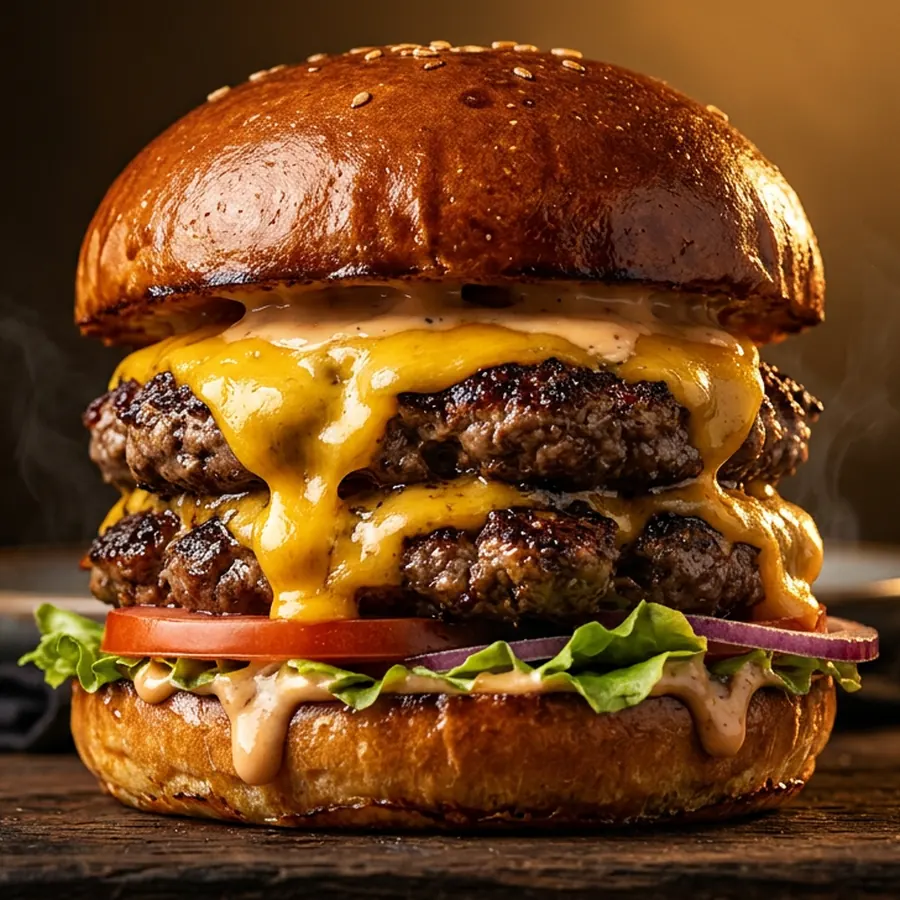
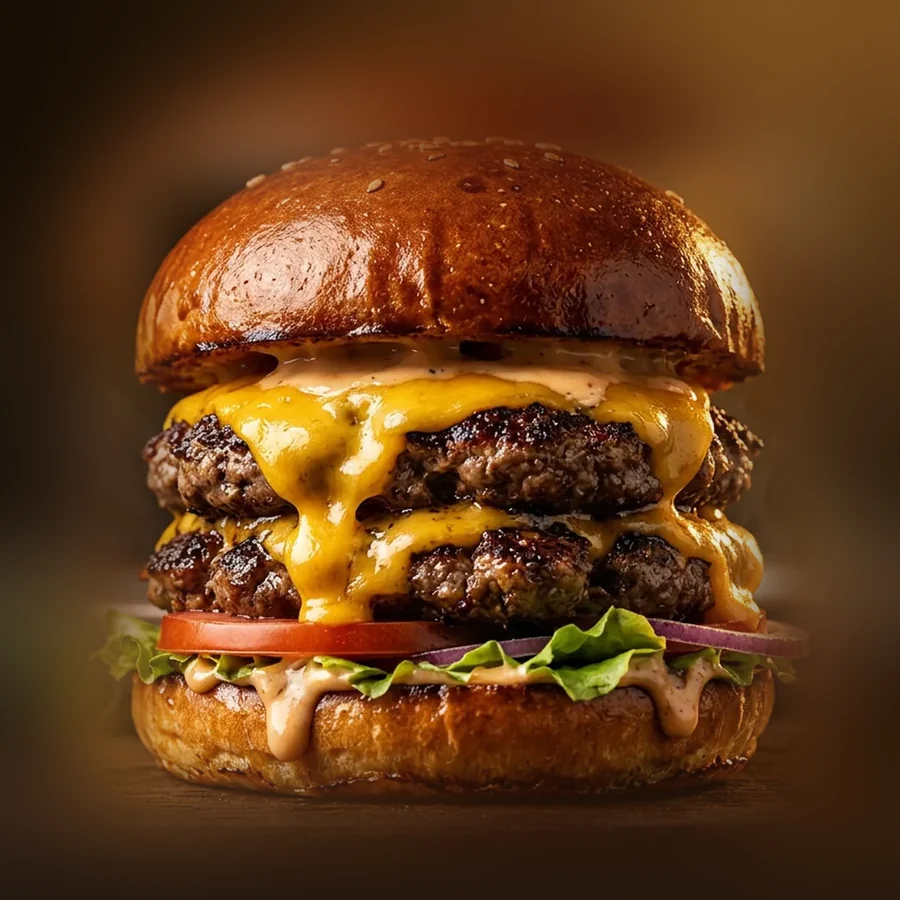
v4: hero com o burger inteiro, sem vão; cards sem zoom; endereço demo; WhatsApp da AEGO com botão flutuante; contato redesenhado

diff --git a/demo/index.html b/demo/index.html
@@ -3,8 +3,8 @@
 <head>
 <meta charset="utf-8">
 <meta name="viewport" content="width=device-width, initial-scale=1, viewport-fit=cover">
-<title>AEGO Burguer — Burger artesanal na Vila Mariana</title>
-<meta name="description" content="Hambúrguer artesanal na Vila Mariana, São Paulo. Smash, burgers duplos, porções e combos. Peça on-line para entrega ou retirada.">
+<title>AEGO Burguer — Burger artesanal</title>
+<meta name="description" content="Hambúrguer artesanal. Smash, burgers duplos, porções e combos. Peça on-line para entrega ou retirada.">
 <meta name="theme-color" content="#17120f">
 <meta property="og:title" content="AEGO Burguer — Burger artesanal. Sem complicação.">
 <meta property="og:description" content="Peça on-line para entrega ou retirada.">
@@ -54,7 +54,7 @@
         <a class="btn btn-contorno" href="pedir.html">Pedir agora <svg viewBox="0 0 24 24" aria-hidden="true"><path d="M4 12h15M13 6l6 6-6 6"/></svg></a>
         <a class="link-sub" href="#cardapio">Ver cardápio</a>
       </div>
-      <p class="hero-local entra" style="--i:2"><svg viewBox="0 0 24 24" aria-hidden="true"><path d="M12 21s-7-6.2-7-11.5A7 7 0 0 1 19 9.5C19 14.8 12 21 12 21z"/><circle cx="12" cy="9.5" r="2.5"/></svg><span><span data-loja="bairro">Vila Mariana</span> · São Paulo</span></p>
+      <p class="hero-local entra" style="--i:2"><svg viewBox="0 0 24 24" aria-hidden="true"><path d="M12 21s-7-6.2-7-11.5A7 7 0 0 1 19 9.5C19 14.8 12 21 12 21z"/><circle cx="12" cy="9.5" r="2.5"/></svg><span><span data-loja="bairro">Centro</span> · <span data-loja="cidade">Sua Cidade - UF</span></span></p>
     </div>
   </section>
 
@@ -113,7 +113,7 @@
       <div class="topicos">
         <article class="topico revela"><h3>Feito na hora</h3><p>Cada pedido é montado depois que chega até nós. Nada fica esperando na chapa.</p></article>
         <article class="topico revela"><h3>Ingredientes selecionados</h3><p>Pão brioche, blend próprio de 120 g, queijos e maioneses artesanais em cada receita.</p></article>
-        <article class="topico revela"><h3>Perto de você</h3><p>No coração da <span data-loja="bairro">Vila Mariana</span>, com retirada, entrega e acompanhamento do pedido em tempo real.</p></article>
+        <article class="topico revela"><h3>Perto de você</h3><p>No coração do bairro <span data-loja="bairro">Centro</span>, com retirada, entrega e acompanhamento do pedido em tempo real.</p></article>
       </div>
     </div>
   </section>
@@ -131,20 +131,20 @@
     <div class="sec-c">
       <p class="num revela"><b>04</b><span class="traco"></span>Endereço e entrega</p>
       <h2 class="titulo">Venha até a AEGO</h2>
-      <p class="sub-amb"><span data-loja="bairro">Vila Mariana</span>, São Paulo</p>
+      <p class="sub-amb"><span data-loja="bairro">Centro</span> · <span data-loja="cidade">Sua Cidade - UF</span></p>
       <div class="local-grid">
-        <dl class="linhas revela">
-          <div><dt>Endereço</dt><dd data-loja="endereco">R. Domingos de Morais, 1200 — Vila Mariana, São Paulo/SP</dd></div>
-          <div><dt>Horário</dt><dd id="horario">Todos os dias, das 11h00 à 01h00</dd></div>
-          <div><dt>Telefone</dt><dd><a id="tel" href="tel:+5511940001234" data-loja="telefone">(11) 94000-1234</a></dd></div>
-          <div><dt>Entrega</dt><dd id="entrega">Vila Mariana e região, a partir de R$ 5,00</dd></div>
-          <div><dt>Faixa de preço</dt><dd data-loja="faixaPreco">R$ 40–60 por pessoa</dd></div>
-        </dl>
+        <ul class="info revela">
+          <li><span class="info-ic" aria-hidden="true"><svg viewBox="0 0 24 24"><path d="M12 21s-7-6.2-7-11.5A7 7 0 0 1 19 9.5C19 14.8 12 21 12 21z"/><circle cx="12" cy="9.5" r="2.5"/></svg></span><div><small>Endereço</small><b data-loja="endereco">Rua Exemplo, 123 — Centro, Sua Cidade/UF</b></div></li>
+          <li><span class="info-ic" aria-hidden="true"><svg viewBox="0 0 24 24"><circle cx="12" cy="12" r="9"/><path d="M12 7v5l3 2"/></svg></span><div><small>Horário</small><b id="horario">Todos os dias, das 11h00 às 01h00</b></div></li>
+          <li><span class="info-ic" aria-hidden="true"><svg viewBox="0 0 24 24"><path d="M5 4h4l2 5-2.5 1.5a11 11 0 0 0 5 5L15 13l5 2v4a2 2 0 0 1-2 2A16 16 0 0 1 3 6a2 2 0 0 1 2-2"/></svg></span><div><small>Telefone e WhatsApp</small><b><a id="tel" href="tel:+5571983901535" data-loja="telefone">(71) 98390-1535</a></b></div></li>
+          <li><span class="info-ic" aria-hidden="true"><svg viewBox="0 0 24 24"><circle cx="6" cy="17" r="3"/><circle cx="18" cy="17" r="3"/><path d="M9 17h6l-3-7H8M15 6h3l3 11"/></svg></span><div><small>Entrega</small><b id="entrega">Centro e região</b></div></li>
+          <li><span class="info-ic" aria-hidden="true"><svg viewBox="0 0 24 24"><rect x="3" y="6" width="18" height="12" rx="2"/><circle cx="12" cy="12" r="2.5"/></svg></span><div><small>Faixa de preço</small><b data-loja="faixaPreco">R$ 40–60 por pessoa</b></div></li>
+        </ul>
         <div>
           <div class="acoes-local revela">
+            <a class="btn btn-zap" id="zap" href="https://wa.me/5571983901535" target="_blank" rel="noopener"><svg class="zap-ic" viewBox="0 0 24 24" aria-hidden="true"><path d="M17.472 14.382c-.297-.149-1.758-.867-2.03-.967-.273-.099-.471-.148-.67.15-.197.297-.767.966-.94 1.164-.173.199-.347.223-.644.075-.297-.15-1.255-.463-2.39-1.475-.883-.788-1.48-1.761-1.653-2.059-.173-.297-.018-.458.13-.606.134-.133.298-.347.446-.52.149-.174.198-.298.298-.497.099-.198.05-.371-.025-.52-.075-.149-.669-1.612-.916-2.207-.242-.579-.487-.5-.669-.51-.173-.008-.371-.01-.57-.01-.198 0-.52.074-.792.372-.272.297-1.04 1.016-1.04 2.479 0 1.462 1.065 2.875 1.213 3.074.149.198 2.096 3.2 5.077 4.487.709.306 1.262.489 1.694.625.712.227 1.36.195 1.871.118.571-.085 1.758-.719 2.006-1.413.248-.694.248-1.289.173-1.413-.074-.124-.272-.198-.57-.347m-5.421 7.403h-.004a9.87 9.87 0 01-5.031-1.378l-.361-.214-3.741.982.998-3.648-.235-.374a9.86 9.86 0 01-1.51-5.26c.001-5.45 4.436-9.884 9.888-9.884 2.64 0 5.122 1.03 6.988 2.898a9.825 9.825 0 012.893 6.994c-.003 5.45-4.437 9.884-9.885 9.884m8.413-18.297A11.815 11.815 0 0012.05 0C5.495 0 .16 5.335.157 11.892c0 2.096.547 4.142 1.588 5.945L.057 24l6.305-1.654a11.882 11.882 0 005.683 1.448h.005c6.554 0 11.89-5.335 11.893-11.893a11.821 11.821 0 00-3.48-8.413Z"/></svg>Chamar no WhatsApp</a>
             <a class="btn btn-cheio" href="pedir.html">Pedir on-line</a>
-            <a class="btn btn-borda" id="comoChegar" href="#" target="_blank" rel="noopener">Como chegar</a>
-            <a class="btn btn-borda btn-zap" id="zap" href="#" target="_blank" rel="noopener"><svg viewBox="0 0 24 24" aria-hidden="true"><path d="M4.5 19.5l1.2-3.8A8 8 0 1 1 8.6 18.6z"/><path d="M9.2 8.6c.2 2.9 2.4 5.6 5.6 6.3l1-1.3-1.8-.9-.8.8c-1-.4-1.9-1.3-2.4-2.3l.8-.8-.8-1.8z"/></svg>WhatsApp</a>
+            <a class="btn btn-borda" id="comoChegar" href="#" target="_blank" rel="noopener"><svg viewBox="0 0 24 24" aria-hidden="true"><path d="M12 21s-7-6.2-7-11.5A7 7 0 0 1 19 9.5C19 14.8 12 21 12 21z"/><circle cx="12" cy="9.5" r="2.5"/></svg>Como chegar</a>
           </div>
           <a class="mapa revela" id="mapa" href="#" target="_blank" rel="noopener" aria-label="Abrir no mapa">
             <svg viewBox="0 0 400 220" preserveAspectRatio="xMidYMid slice" aria-hidden="true">
@@ -176,11 +176,13 @@
 <footer class="rodape">
   <div class="sec-c">
     <span class="wm"><b>AEGO</b><i>Burguer</i></span>
-    <p class="rod-end"><span data-loja="endereco">R. Domingos de Morais, 1200 — Vila Mariana, São Paulo/SP</span> · <span data-loja="telefone">(11) 94000-1234</span></p>
+    <p class="rod-end"><span data-loja="endereco">Rua Exemplo, 123 — Centro, Sua Cidade/UF</span> · <span data-loja="telefone" style="white-space:nowrap">(71) 98390-1535</span></p>
     <nav class="rod-links"><a href="pedir.html">Pedir on-line</a><a href="#cardapio">Cardápio</a><a href="#local">Endereço</a><a href="painel.html">Área da loja</a></nav>
     <p class="rod-c">© <span id="ano">2026</span> AEGO Burguer · Sistema AEGO</p>
   </div>
 </footer>
+
+<a class="zap-fab" id="zapFab" href="https://wa.me/5571983901535" target="_blank" rel="noopener" aria-label="Chamar no WhatsApp"><svg class="zap-ic" viewBox="0 0 24 24" aria-hidden="true"><path d="M17.472 14.382c-.297-.149-1.758-.867-2.03-.967-.273-.099-.471-.148-.67.15-.197.297-.767.966-.94 1.164-.173.199-.347.223-.644.075-.297-.15-1.255-.463-2.39-1.475-.883-.788-1.48-1.761-1.653-2.059-.173-.297-.018-.458.13-.606.134-.133.298-.347.446-.52.149-.174.198-.298.298-.497.099-.198.05-.371-.025-.52-.075-.149-.669-1.612-.916-2.207-.242-.579-.487-.5-.669-.51-.173-.008-.371-.01-.57-.01-.198 0-.52.074-.792.372-.272.297-1.04 1.016-1.04 2.479 0 1.462 1.065 2.875 1.213 3.074.149.198 2.096 3.2 5.077 4.487.709.306 1.262.489 1.694.625.712.227 1.36.195 1.871.118.571-.085 1.758-.719 2.006-1.413.248-.694.248-1.289.173-1.413-.074-.124-.272-.198-.57-.347m-5.421 7.403h-.004a9.87 9.87 0 01-5.031-1.378l-.361-.214-3.741.982.998-3.648-.235-.374a9.86 9.86 0 01-1.51-5.26c.001-5.45 4.436-9.884 9.888-9.884 2.64 0 5.122 1.03 6.988 2.898a9.825 9.825 0 012.893 6.994c-.003 5.45-4.437 9.884-9.885 9.884m8.413-18.297A11.815 11.815 0 0012.05 0C5.495 0 .16 5.335.157 11.892c0 2.096.547 4.142 1.588 5.945L.057 24l6.305-1.654a11.882 11.882 0 005.683 1.448h.005c6.554 0 11.89-5.335 11.893-11.893a11.821 11.821 0 00-3.48-8.413Z"/></svg></a>
 
 <script src="db.js"></script>
 <script src="site.js"></script>

diff --git a/demo/site.css b/demo/site.css
@@ -137,7 +137,7 @@ html.intro .hero-flut img, html.intro .hero-t .ln-i, html.intro .hero .entra { a
 /* local */
 .sec-local { background: var(--bg3); }
 .sub-amb { margin: 12px 0 0; color: var(--amb); font-weight: 700; letter-spacing: .08em; font-size: 15px; }
-.local-grid { display: grid; gap: 40px; margin-top: 40px; }
+.local-grid { display: grid; gap: 24px; margin-top: 40px; }
 @media (min-width: 960px) { .local-grid { grid-template-columns: 1.1fr 1fr; gap: 64px; align-items: start; } }
 .linhas { margin: 0; }
 .linhas > div { display: grid; grid-template-columns: 128px 1fr; gap: 16px; padding: 20px 0; border-top: 1px solid var(--linha); }
@@ -182,3 +182,43 @@ html.intro .hero-flut img, html.intro .hero-t .ln-i, html.intro .hero .entra { a
 @media (max-width: 380px) { .topo-marca .wm { font-size: 25px; } .btn-topo { padding: 0 16px; font-size: 14px; } .linhas > div { grid-template-columns: 1fr; gap: 4px; } }
 
 @media (prefers-reduced-motion: reduce) { .js .revela { opacity: 1; transform: none; } .entra, .hero-t .ln-i, .hero-flut, .hero-flut img { animation: none; } }
+
+/* ============ v4 (17/11): hero com o burger inteiro, sem vão; cards sem zoom; contato e WhatsApp ============ */
+.card-foto { aspect-ratio: 1 / 1; }
+.card-foto img { object-position: 50% 50%; }
+
+@media (max-width: 899px) {
+  .hero { min-height: 0; display: block; }
+  .hero-fundo { inset: 0 0 auto 0; height: calc(64px + env(safe-area-inset-top, 0px) + 96vw); }
+  .hero-flut { top: calc(60px + env(safe-area-inset-top, 0px)); left: 5%; width: 90%; aspect-ratio: 816 / 768; }
+  .hero-flut::after { display: none; }
+  .hero-flut img { object-fit: contain; -webkit-mask-image: radial-gradient(ellipse 62% 60% at 50% 46%, #000 64%, transparent 100%); mask-image: radial-gradient(ellipse 62% 60% at 50% 46%, #000 64%, transparent 100%); }
+  .hero-veu { background: linear-gradient(180deg, rgba(15, 11, 9, .35) 0, rgba(15, 11, 9, 0) calc(64px + 18vw), rgba(15, 11, 9, .2) calc(64px + 52vw), rgba(23, 18, 15, .82) calc(64px + 78vw), var(--bg) calc(64px + 92vw)); }
+  .hero-c { padding-top: calc(64px + env(safe-area-inset-top, 0px) + 68vw); padding-bottom: 56px; }
+  .hero-local { margin-top: 26px; }
+}
+
+/* contato */
+.info { list-style: none; margin: 0; padding: 0; display: grid; gap: 10px; }
+.info li { display: flex; align-items: flex-start; gap: 14px; padding: 16px; background: var(--bg2); border: 1px solid var(--linha); border-radius: 12px; }
+.info-ic { flex: 0 0 auto; width: 42px; height: 42px; border-radius: 50%; display: grid; place-items: center; background: rgba(224, 164, 58, .12); color: var(--amb); }
+.info-ic svg { width: 21px; height: 21px; fill: none; stroke: currentColor; stroke-width: 1.8; stroke-linecap: round; stroke-linejoin: round; }
+.info small { display: block; font-size: 12px; letter-spacing: .1em; text-transform: uppercase; font-weight: 700; color: var(--amb); margin: 2px 0 4px; }
+.info b { display: block; font-weight: 500; color: rgba(244, 237, 226, .92); line-height: 1.45; overflow-wrap: anywhere; }
+.info a { color: inherit; text-decoration: none; }
+.acoes-local { display: grid; grid-template-columns: 1fr 1fr; gap: 10px; }
+.acoes-local .btn { border-radius: 10px; padding: 0 16px; }
+.acoes-local .btn-zap { grid-column: 1 / -1; }
+.btn-zap { background: #25d366; color: #0b2614; border-color: #25d366; font-weight: 700; letter-spacing: .02em; }
+.btn-zap:hover { background: #2fe072; border-color: #2fe072; }
+.btn .zap-ic, .zap-ic { width: 22px; height: 22px; fill: currentColor; stroke: none; }
+.btn:hover .zap-ic { transform: none; }
+.mapa { border-radius: 12px; }
+.mapa-t { border-radius: 8px; }
+
+/* WhatsApp flutuante */
+.zap-fab { position: fixed; right: 16px; bottom: calc(16px + env(safe-area-inset-bottom, 0px)); z-index: 60; width: 58px; height: 58px; border-radius: 50%; display: grid; place-items: center; background: #25d366; color: #fff; box-shadow: 0 8px 22px rgba(0, 0, 0, .35); opacity: 0; transform: translateY(18px) scale(.85); pointer-events: none; transition: opacity .3s var(--ease), transform .35s var(--ease); }
+.zap-fab .zap-ic { width: 30px; height: 30px; }
+.zap-fab.on { opacity: 1; transform: none; pointer-events: auto; }
+.zap-fab:active { transform: scale(.94); }
+@media (prefers-reduced-motion: reduce) { .zap-fab { transition: none; } }

diff --git a/demo/db.js b/demo/db.js
@@ -27,7 +27,7 @@
    ===================================================================== */
 (function (w) {
   'use strict';
-  var VERSAO = 3;
+  var VERSAO = 4;
   var K = { versao: 'ab_versao', loja: 'ab_loja', cardapio: 'ab_cardapio', pedidos: 'ab_pedidos', seq: 'ab_seq', sessao: 'ab_sessao' };
   var LS = w.localStorage;
 
@@ -40,12 +40,12 @@
   var LOJA = {
     nome: 'AEGO Burguer',
     slogan: 'Sabor que vicia',
-    bairro: 'Vila Mariana',
-    cidade: 'São Paulo - SP',
-    endereco: 'R. Domingos de Morais, 1200 — Vila Mariana, São Paulo/SP, 04010-100',
-    telefone: '(11) 94000-1234',
-    whatsapp: '5511940001234',
-    mapa: 'https://maps.google.com/?q=R.+Domingos+de+Morais,+1200+Vila+Mariana+Sao+Paulo',
+    bairro: 'Centro',
+    cidade: 'Sua Cidade - UF',
+    endereco: 'Rua Exemplo, 123 — Centro, Sua Cidade/UF',
+    telefone: '(71) 98390-1535',
+    whatsapp: '5571983901535',
+    mapa: 'https://www.google.com/maps/search/?api=1&query=hamburgueria',
     instagram: 'aegoburguer',
     abre: '11:00',
     fecha: '01:00',
@@ -54,13 +54,13 @@
     tempoRetirada: '20–30 min',
     pedidoMinimo: 20,
     bairros: [
-      { nome: 'Vila Mariana', taxa: 5, tempo: '30–40 min' },
-      { nome: 'Aclimação', taxa: 6, tempo: '35–45 min' },
-      { nome: 'Paraíso', taxa: 6, tempo: '35–45 min' },
-      { nome: 'Saúde', taxa: 7, tempo: '40–50 min' },
-      { nome: 'Ipiranga', taxa: 9, tempo: '45–55 min' },
-      { nome: 'Moema', taxa: 9, tempo: '45–55 min' },
-      { nome: 'Liberdade', taxa: 8, tempo: '40–50 min' }
+      { nome: 'Centro', taxa: 5, tempo: '30–40 min' },
+      { nome: 'Jardim Europa', taxa: 6, tempo: '35–45 min' },
+      { nome: 'Vila Nova', taxa: 6, tempo: '35–45 min' },
+      { nome: 'Bela Vista', taxa: 7, tempo: '40–50 min' },
+      { nome: 'Boa Vista', taxa: 8, tempo: '40–50 min' },
+      { nome: 'Santa Cruz', taxa: 9, tempo: '45–55 min' },
+      { nome: 'São José', taxa: 9, tempo: '45–55 min' }
     ],
     // adicionais oferecidos nos itens com "extras: 'burger'"
     extras: [
@@ -151,7 +151,7 @@
       var formas = ['pix', 'pix', 'cartao', 'cartao', 'dinheiro'], f = formas[Math.floor(r() * formas.length)];
       var total = +(sub + taxa).toFixed(2);
       seq++;
-      var p = { id: String(seq), numero: seq, criadoEm: t, cliente: { nome: NOMES[Math.floor(r() * NOMES.length)], telefone: '(11) 9' + (8000 + Math.floor(r() * 1999)) + '-' + (1000 + Math.floor(r() * 8999)) },
+      var p = { id: String(seq), numero: seq, criadoEm: t, cliente: { nome: NOMES[Math.floor(r() * NOMES.length)], telefone: '(71) 9' + (8000 + Math.floor(r() * 1999)) + '-' + (1000 + Math.floor(r() * 8999)) },
         tipo: entrega ? 'entrega' : 'retirada', endereco: entrega ? { rua: 'Rua Exemplo', numero: String(10 + Math.floor(r() * 900)), complemento: '', bairro: b.nome } : null,
         itens: itens, subtotal: sub, taxa: taxa, total: total,
         pagamento: { forma: f, trocoPara: f === 'dinheiro' ? Math.ceil(total / 50) * 50 : 0 }, obs: '', status: status,

diff --git a/demo/pedir.html b/demo/pedir.html
@@ -31,7 +31,7 @@
       <h1 id="nomeLoja">AEGO Burguer - <span>Sabor que vicia</span></h1>
       <div class="loja-meta">
         <svg viewBox="0 0 24 24" aria-hidden="true"><path d="M12 2a7 7 0 0 0-7 7c0 5.2 7 13 7 13s7-7.8 7-13a7 7 0 0 0-7-7zm0 9.5A2.5 2.5 0 1 1 12 6.5a2.5 2.5 0 0 1 0 5z"/></svg>
-        <span id="cidade">São Paulo - SP</span><span class="pt"></span>
+        <span id="cidade">Sua Cidade - UF</span><span class="pt"></span>
         <button class="link-btn" id="maisInfo" type="button">Mais informações</button>
       </div>
       <div class="status-loja" id="statusLoja">…</div>
@@ -74,7 +74,7 @@
     <h2 class="titulo-sec" style="padding:0 4px 12px">Perfil</h2>
     <form id="formPerfil" class="caixa" autocomplete="on">
       <label class="campo"><span>Nome</span><input name="nome" autocomplete="name" placeholder="Seu nome"></label>
-      <label class="campo"><span>Telefone (WhatsApp)</span><input name="telefone" inputmode="tel" autocomplete="tel" placeholder="(11) 90000-0000"></label>
+      <label class="campo"><span>Telefone (WhatsApp)</span><input name="telefone" inputmode="tel" autocomplete="tel" placeholder="(71) 90000-0000"></label>
       <label class="campo"><span>Rua</span><input name="rua" autocomplete="address-line1" placeholder="Rua / Avenida"></label>
       <div class="dupla"><label class="campo"><span>Complemento</span><input name="complemento" placeholder="Apto, bloco…"></label><label class="campo"><span>Número</span><input name="numero" inputmode="numeric"></label></div>
       <label class="campo"><span>Bairro</span><select name="bairro" id="perfilBairro"></select></label>

diff --git a/demo/site.js b/demo/site.js
@@ -88,7 +88,8 @@
     var min = Math.min.apply(null, l.bairros.map(function (b) { return b.taxa; }));
     d.getElementById('entrega').textContent = l.bairros.slice(0, 4).map(function (b) { return b.nome; }).join(', ') + ' e região · taxa a partir de ' + U.brl(min);
     d.getElementById('comoChegar').href = l.mapa; d.getElementById('mapa').href = l.mapa;
-    d.getElementById('zap').href = 'https://wa.me/' + l.whatsapp + '?text=' + encodeURIComponent('Olá, AEGO Burguer! Vim pelo site.');
+    var zap = 'https://wa.me/' + l.whatsapp + '?text=' + encodeURIComponent('Olá, AEGO Burguer! Vim pelo site.');
+    d.getElementById('zap').href = zap; d.getElementById('zapFab').href = zap;
     d.getElementById('notaMedia').textContent = String(l.notaMedia).replace('.', ',');
     d.getElementById('notaTotal').textContent = '+' + l.totalAvaliacoes.toLocaleString('pt-BR') + ' avaliações';
     d.getElementById('avals').innerHTML = (l.avaliacoes || []).map(function (a) {
@@ -109,6 +110,12 @@
     }).join('');
     observar(d.getElementById('cards'));
   }
+
+  (function () { // botão flutuante do WhatsApp aparece depois da entrada
+    var fab = d.getElementById('zapFab'), hero = d.getElementById('inicio');
+    if (!fab || !hero || !('IntersectionObserver' in window)) { if (fab) fab.classList.add('on'); return; }
+    new IntersectionObserver(function (es) { fab.classList.toggle('on', !es[0].isIntersecting); }, { threshold: 0.15 }).observe(hero);
+  })();
 
   DB.loja().then(aplicarLoja);
   DB.cardapio().then(aplicarCardapio);

diff --git a/demo/pedir.js b/demo/pedir.js
@@ -272,7 +272,7 @@
     var h = cab('Finalizar pedido', 'sacola') + '<form class="folha-corpo" id="ck" novalidate><div class="ck">' +
       '<h3>Seus dados</h3>' +
       '<label class="campo" data-c="nome"><span>Nome</span><input name="nome" autocomplete="name" value="' + esc(cliente.nome) + '" placeholder="Como podemos te chamar?"></label>' +
-      '<label class="campo" data-c="telefone"><span>Telefone (WhatsApp)</span><input name="telefone" inputmode="tel" autocomplete="tel" value="' + esc(cliente.telefone) + '" placeholder="(11) 90000-0000"></label>' +
+      '<label class="campo" data-c="telefone"><span>Telefone (WhatsApp)</span><input name="telefone" inputmode="tel" autocomplete="tel" value="' + esc(cliente.telefone) + '" placeholder="(71) 90000-0000"></label>' +
       '<h3>Como quer receber?</h3><div class="seg">' +
       '<label><input type="radio" name="tipo" value="entrega"' + (tipo === 'entrega' ? ' checked' : '') + '><span>' + IC.moto + 'Entrega<small id="ckTempoE"></small></span></label>' +
       '<label><input type="radio" name="tipo" value="retirada"' + (tipo === 'retirada' ? ' checked' : '') + '><span>' + IC.loja + 'Retirada<small>' + esc(loja.tempoRetirada) + ' · grátis</small></span></label></div>' +

diff --git a/demo/sw.js b/demo/sw.js
@@ -2,7 +2,7 @@
    Rede primeiro (sempre a versão mais nova); cache só como reserva offline.
    Guarda apenas arquivos do próprio site listados em SHELL e as fotos de img/.
    Ao publicar mudanças, aumente VERSAO para os celulares pegarem os arquivos novos. */
-var VERSAO = 'ab-v4';
+var VERSAO = 'ab-v5';
 var SHELL = ['./', 'index.html', 'pedir.html', 'painel.html', 'base.css', 'site.css', 'pedir.css', 'painel.css',
   'db.js', 'site.js', 'pedir.js', 'painel.js', 'manifest-pedir.json', 'manifest-painel.json',
   'fonts/anton.woff2', 'fonts/hanken-grotesk.woff2', 'img/hero-aego.webp', 'img/hero-aego-m.webp', 'img/capa-aego.webp',
